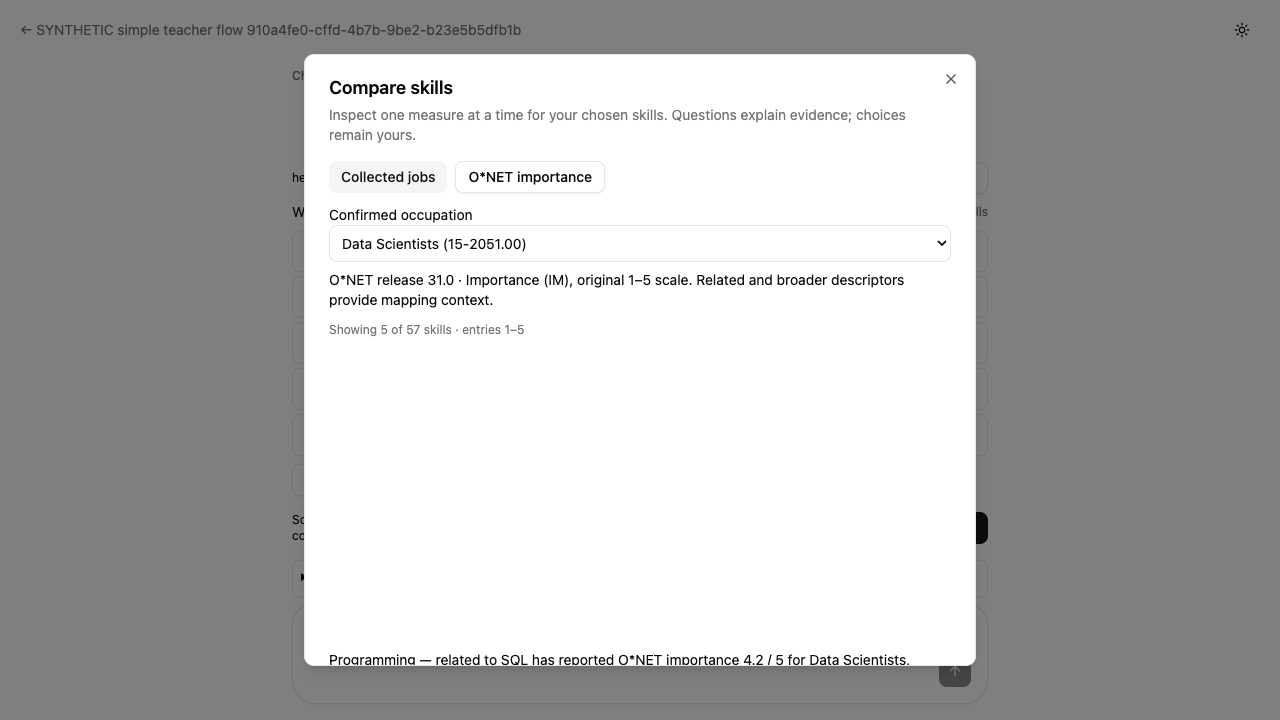
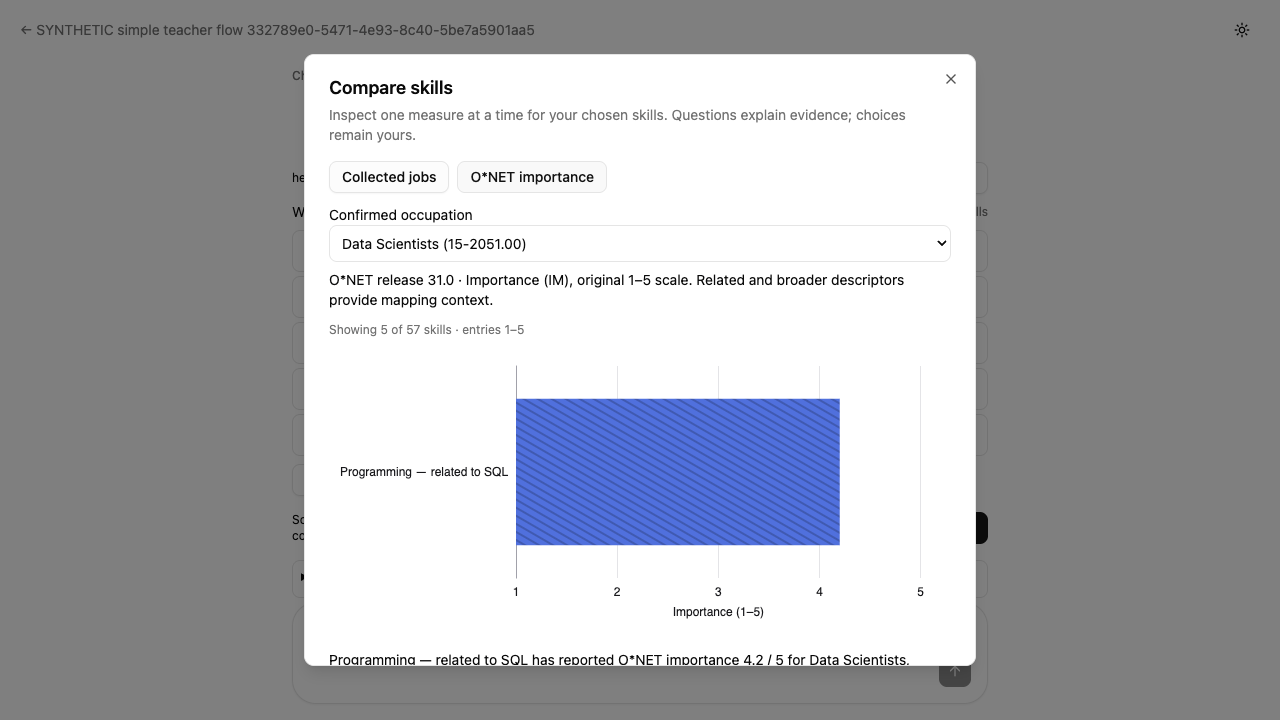
test: require confirmed selection and completed mapping streams

diff --git a/output/teacher-evidence-workspace/simple-flow-acceptance/index.html b/output/teacher-evidence-workspace/simple-flow-acceptance/index.html
@@ -5,7 +5,7 @@
 <h2>Student preservation and publication</h2><div class="table"><table><thead><tr><th>Readback</th><th>Before</th><th>After explicit approval</th></tr></thead><tbody><tr><td>SQL publication revision / approval rows</td><td>0 / 0</td><td>1 / 1; projected; repeat request remains one row</td></tr><tr><td>Approved IDs / supporting links</td><td>57 saved, no publication</td><td>Exact same 57 IDs; four links per item; exact review digest</td></tr><tr><td>Saved path (real Neo4j-backed student API)</td><td>1 saved book skill</td><td>Deep equal, including IDs and chapter relationships</td></tr><tr><td>Saved resource</td><td>1 reading, ready content</td><td>Deep equal, including URL and content</td></tr><tr><td>Quiz and mastery</td><td>1 answered, 1 correct; completed; is_known=true</td><td>Deep equal, including answer timestamp</td></tr></tbody></table></div><p>These checks are nonempty: the student already had a saved reading, answered quiz and mastered skill before publication. Full runtime ledgers and private authentication manifests are excluded from this report and Git.</p>
 <h2>Measured layout</h2><p>The assertion measures the actual main pane, current decision and action. Both required desktop sizes have no main scrolling. Five choices plus required coverage and pending proposals were exercised. Curriculum warnings use three summaries and a complete paged detail view. At 320 pixels the main pane scrolls vertically; keyboard focus brings the action into view, with no horizontal overflow.</p><div class="table"><table><thead><tr><th>State</th><th>Viewport</th><th>Main client / scroll px</th><th>Main skill rows</th><th>Action bottom px</th></tr></thead><tbody><tr><td>Five choices + coverage</td><td>320 × 667</td><td>583 / 782</td><td>5</td><td>Reachable</td></tr><tr><td>Five choices + coverage</td><td>390 × 844</td><td>780 / 780</td><td>5</td><td>Reachable</td></tr><tr><td>Five choices + coverage</td><td>1280 × 720</td><td>660 / 660</td><td>5</td><td>Reachable</td></tr><tr><td>Five choices + coverage</td><td>1440 × 900</td><td>840 / 840</td><td>5</td><td>Reachable</td></tr><tr><td>Curriculum approval</td><td>1280 × 720</td><td>660 / 660</td><td>3 targets</td><td>552</td></tr><tr><td>Curriculum approval</td><td>1440 × 900</td><td>840 / 840</td><td>3 targets</td><td>732</td></tr></tbody></table></div><p>Mobile action reachability is checked after scroll/focus. Desktop action coordinates are absolute viewport positions. The 320-pixel Browse dialog has no horizontal scrolling, and all six pages remain reachable.</p>
 <h2>Defects found and fixed</h2><ol><li><strong>Curriculum overflow:</strong> the original 1280 × 720 main pane measured 660 pixels high with 870 pixels of content, and the approval action ended at y=774. Compact summaries and an explicit remaining-warning count now keep the action visible. All four warnings and all 57 target IDs remain available; digest and exact-ID guards remain unchanged.</li><li><strong>Long unsupported names:</strong> the original alert printed full unbroken Unicode names across the main pane. It now reports the exact count and removal requirement; Browse presents every full name as breakable text with exact inspection/removal IDs.</li><li><strong>Narrow-screen review:</strong> Browse now constrains its grid and wraps pagination; its 320-pixel dialog measures 286/286 pixels client/scroll. Coverage copy uses the full 280-pixel width above its action.</li><li><strong>Source identity and keyboard return:</strong> links use currently verified title/employer, with posting-ID fallback while checking or purged. Escape restores the main Inspect button, or the surviving Browse trigger after inspecting from its dialog. No dialogs stack.</li></ol>
-<h2>Verification receipts</h2><ul><li><code>simple-contracts</code>, <code>simple-workflow</code>, <code>simple-corpus</code>, and <code>simple-layout</code> passed. <strong>Formal review fix round 1: the complete fresh-seeded <code>simple-flow</code> passed with exit 0 on new disposable course 96.</strong> It checked initial country/SOC/source-outcome state, all 58 choices, save failure/retry/reload, actual fresh Continue mapping HTTP 200, exact 57-ID/digest explicit approval, projected/idempotent publication and unchanged nonempty student records. No manual state repair or step transition was used. This supersedes the earlier incomplete full-flow receipt; the separate course-66 mapping receipt remains historical evidence. Application, helper and harness code are unchanged from <code>25644546db0748e215db91166aa5053e32f64ce1</code>. <code>simple-keyboard</code> passed and its assertions are included in <code>simple-layout</code>. Default <code>all</code> runs the five current suites. Historical names redirect explicitly; obsolete dashboard selector bodies were removed.</li><li>Curriculum regression: RED then 88 tests passed across IntegrationReview and MarketDemand. Unicode regression: RED then 40 tests passed across SkillChoice and MarketDemand. Review fixes: 58 tests passed; adjacent label/context checks: 32; final focus/choice checks: 22. These overlapping sets are not summed.</li><li>Frontend lint and production build passed; backend Ruff check and format passed for 330 files; JavaScript syntax and Git whitespace checks passed.</li><li>Existing integrated receipts reused: frontend547 tests/27 files plus199 affected tests; backend184 core plus208 context/pattern/chat tests. No backend production algorithm changed.</li></ul><details><summary>Retained numerical corpus (13 cases)</summary><ul><li>denominator_9</li><li>denominator_10</li><li>spread_1_0_distinct_role_ids</li><li>missing_cell</li><li>suppressed_numeric_not_plotted</li><li>ambiguous_cell</li><li>explicit_descriptor_choice</li><li>tie_label_then_id</li><li>same_denominator_only</li><li>max_two_no_repeated_skill</li><li>filtered_empty</li><li>partial_coverage_qualified</li><li>software_reference_not_numeric</li></ul></details>
-<h2>Screenshots</h2><p>Click any image for its full-size synthetic capture.</p><div class="gallery"><figure><a href="coverage-1280.png"><img loading="lazy" src="coverage-1280.png" alt="Five choices and required evidence gate · 1280 × 720"></a><figcaption>Five choices and required evidence gate · 1280 × 720</figcaption></figure><figure><a href="coverage-1440.png"><img loading="lazy" src="coverage-1440.png" alt="Five choices and required evidence gate · 1440 × 900"></a><figcaption>Five choices and required evidence gate · 1440 × 900</figcaption></figure><figure><a href="coverage-1024.png"><img loading="lazy" src="coverage-1024.png" alt="Tablet landscape · 1024 × 768"></a><figcaption>Tablet landscape · 1024 × 768</figcaption></figure><figure><a href="review-layout-390.png"><img loading="lazy" src="review-layout-390.png" alt="Stacked coverage prompt · 390 × 844"></a><figcaption>Stacked coverage prompt · 390 × 844</figcaption></figure><figure><a href="review-layout-320.png"><img loading="lazy" src="review-layout-320.png" alt="Mobile action reached · 320 × 667"></a><figcaption>Mobile action reached · 320 × 667</figcaption></figure><figure><a href="review-browse-320.png"><img loading="lazy" src="review-browse-320.png" alt="Browse pagination fits · 320 × 667"></a><figcaption>Browse pagination fits · 320 × 667</figcaption></figure><figure><a href="coverage-dark.png"><img loading="lazy" src="coverage-dark.png" alt="Dark appearance"></a><figcaption>Dark appearance</figcaption></figure><figure><a href="five-rows-proposals-coverage.png"><img loading="lazy" src="five-rows-proposals-coverage.png" alt="Five choices, six proposals and coverage gate"></a><figcaption>Five choices, six proposals and coverage gate</figcaption></figure><figure><a href="save-failure.png"><img loading="lazy" src="save-failure.png" alt="Real database save failure retains local choices"></a><figcaption>Real database save failure retains local choices</figcaption></figure><figure><a href="review-posting-identities.png"><img loading="lazy" src="review-posting-identities.png" alt="ETL: four named postings, two validated passages each"></a><figcaption>ETL: four named postings, two validated passages each</figcaption></figure><figure><a href="review-purged-identity.png"><img loading="lazy" src="review-purged-identity.png" alt="Purged content falls back to safe posting identity"></a><figcaption>Purged content falls back to safe posting identity</figcaption></figure><figure><a href="keyboard-focus-restored.png"><img loading="lazy" src="keyboard-focus-restored.png" alt="Keyboard close returns to surviving trigger"></a><figcaption>Keyboard close returns to surviving trigger</figcaption></figure><figure><a href="onet-related-and-missing.png"><img loading="lazy" src="onet-related-and-missing.png" alt="Related Programming descriptor and missing values"></a><figcaption>Related Programming descriptor and missing values</figcaption></figure><figure><a href="curriculum-1280.png"><img loading="lazy" src="curriculum-1280.png" alt="57 eligible curriculum targets; explicit approval visible"></a><figcaption>57 eligible curriculum targets; explicit approval visible</figcaption></figure><figure><a href="curriculum-blocked-1280.png"><img loading="lazy" src="curriculum-blocked-1280.png" alt="Supporting evidence warning keeps approval blocked"></a><figcaption>Supporting evidence warning keeps approval blocked</figcaption></figure><figure><a href="unicode-main-1280.png"><img loading="lazy" src="unicode-main-1280.png" alt="Long Unicode names: compact main warning"></a><figcaption>Long Unicode names: compact main warning</figcaption></figure><figure><a href="unicode-five-roles-320.png"><img loading="lazy" src="unicode-five-roles-320.png" alt="Long labels and five-role selector on mobile"></a><figcaption>Long labels and five-role selector on mobile</figcaption></figure><figure><a href="chart-import-failure.png"><img loading="lazy" src="chart-import-failure.png" alt="Actual chart chunk failure with usable fallback"></a><figcaption>Actual chart chunk failure with usable fallback</figcaption></figure><figure><a href="purged-posting-no-body.png"><img loading="lazy" src="purged-posting-no-body.png" alt="Purged posting retains provenance but no body"></a><figcaption>Purged posting retains provenance but no body</figcaption></figure><figure><a href="revised-candidates-reviewed.png"><img loading="lazy" src="revised-candidates-reviewed.png" alt="Explicit reconciliation of revised candidates"></a><figcaption>Explicit reconciliation of revised candidates</figcaption></figure><figure><a href="search-terms-1280.png"><img loading="lazy" src="search-terms-1280.png" alt="Five explicit search-term choices"></a><figcaption>Five explicit search-term choices</figcaption></figure><figure><a href="source-failure-recovery.png"><img loading="lazy" src="source-failure-recovery.png" alt="Source failure with zero candidates"></a><figcaption>Source failure with zero candidates</figcaption></figure><figure><a href="approved-disposable-fixture.png"><img loading="lazy" src="approved-disposable-fixture.png" alt="Explicit approval of disposable synthetic fixture"></a><figcaption>Explicit approval of disposable synthetic fixture</figcaption></figure></div>
+<h2>Verification receipts</h2><ul><li><code>simple-contracts</code>, <code>simple-workflow</code>, <code>simple-corpus</code>, and <code>simple-layout</code> passed. <strong>Final review I1: the strengthened fresh-seeded <code>simple-flow</code> passed with exit 0 on new disposable course 99.</strong> It checked initial country/SOC/source-outcome state, all 58 choices, save failure/retry/reload, actual UI selection confirmation with exact revisions/IDs/exclusions, fresh Continue mapping HTTP 200 with a completed SSE terminal and no error events, authoritative teacher confirmation and idle/unpublished state before fixture preparation, exact 57-ID/digest explicit approval, projected/idempotent publication and unchanged nonempty student records. No manual state repair or step transition was used. This supersedes the earlier incomplete full-flow receipt; the separate course-66 mapping receipt remains historical evidence. Application code is unchanged from <code>25644546db0748e215db91166aa5053e32f64ce1</code>; the acceptance helper and harness now enforce the confirmation and terminal-success boundary. The real HTTP 200/failed-terminal negative scenario rejects preparation, and missing confirmation rejects the helper without writes. Parser regressions cover error, failed, absent, duplicate and nonfinal terminal events. <code>simple-keyboard</code> passed and its assertions are included in <code>simple-layout</code>. Default <code>all</code> runs the negative boundary scenario plus the five current suites. Historical names redirect explicitly; obsolete dashboard selector bodies were removed.</li><li>Curriculum regression: RED then 88 tests passed across IntegrationReview and MarketDemand. Unicode regression: RED then 40 tests passed across SkillChoice and MarketDemand. Review fixes: 58 tests passed; adjacent label/context checks: 32; final focus/choice checks: 22. These overlapping sets are not summed.</li><li>Frontend lint and production build passed; backend Ruff check and format passed for 330 files; JavaScript syntax and Git whitespace checks passed.</li><li>Existing integrated receipts reused: frontend547 tests/27 files plus199 affected tests; backend184 core plus208 context/pattern/chat tests. No backend production algorithm changed.</li></ul><details><summary>Retained numerical corpus (13 cases)</summary><ul><li>denominator_9</li><li>denominator_10</li><li>spread_1_0_distinct_role_ids</li><li>missing_cell</li><li>suppressed_numeric_not_plotted</li><li>ambiguous_cell</li><li>explicit_descriptor_choice</li><li>tie_label_then_id</li><li>same_denominator_only</li><li>max_two_no_repeated_skill</li><li>filtered_empty</li><li>partial_coverage_qualified</li><li>software_reference_not_numeric</li></ul></details>
+<h2>Final review closure</h2><p><strong>I1:</strong> Both course-scoped POST responses are captured before Continue. The confirmation request and response are checked against the saved shortlist; completed SSE is parsed and must end successfully without errors. SQL and state must already contain the matching teacher confirmation with no publication or approval, and execution must be idle. Preparation asserts the existing confirmation and never creates it. A controlled model exception exercises a real HTTP 200 failed stream and proves preparation is not called.</p><p><strong>M1:</strong> The O*NET screenshot now waits for the new SVG, the exact 4.2 series, the related Programming label and an actual rendered SVG bar. No production application files changed in this final fix.</p><h2>Screenshots</h2><p>Click any image for its full-size synthetic capture.</p><div class="gallery"><figure><a href="coverage-1280.png"><img loading="lazy" src="coverage-1280.png" alt="Five choices and required evidence gate · 1280 × 720"></a><figcaption>Five choices and required evidence gate · 1280 × 720</figcaption></figure><figure><a href="coverage-1440.png"><img loading="lazy" src="coverage-1440.png" alt="Five choices and required evidence gate · 1440 × 900"></a><figcaption>Five choices and required evidence gate · 1440 × 900</figcaption></figure><figure><a href="coverage-1024.png"><img loading="lazy" src="coverage-1024.png" alt="Tablet landscape · 1024 × 768"></a><figcaption>Tablet landscape · 1024 × 768</figcaption></figure><figure><a href="review-layout-390.png"><img loading="lazy" src="review-layout-390.png" alt="Stacked coverage prompt · 390 × 844"></a><figcaption>Stacked coverage prompt · 390 × 844</figcaption></figure><figure><a href="review-layout-320.png"><img loading="lazy" src="review-layout-320.png" alt="Mobile action reached · 320 × 667"></a><figcaption>Mobile action reached · 320 × 667</figcaption></figure><figure><a href="review-browse-320.png"><img loading="lazy" src="review-browse-320.png" alt="Browse pagination fits · 320 × 667"></a><figcaption>Browse pagination fits · 320 × 667</figcaption></figure><figure><a href="coverage-dark.png"><img loading="lazy" src="coverage-dark.png" alt="Dark appearance"></a><figcaption>Dark appearance</figcaption></figure><figure><a href="five-rows-proposals-coverage.png"><img loading="lazy" src="five-rows-proposals-coverage.png" alt="Five choices, six proposals and coverage gate"></a><figcaption>Five choices, six proposals and coverage gate</figcaption></figure><figure><a href="save-failure.png"><img loading="lazy" src="save-failure.png" alt="Real database save failure retains local choices"></a><figcaption>Real database save failure retains local choices</figcaption></figure><figure><a href="review-posting-identities.png"><img loading="lazy" src="review-posting-identities.png" alt="ETL: four named postings, two validated passages each"></a><figcaption>ETL: four named postings, two validated passages each</figcaption></figure><figure><a href="review-purged-identity.png"><img loading="lazy" src="review-purged-identity.png" alt="Purged content falls back to safe posting identity"></a><figcaption>Purged content falls back to safe posting identity</figcaption></figure><figure><a href="keyboard-focus-restored.png"><img loading="lazy" src="keyboard-focus-restored.png" alt="Keyboard close returns to surviving trigger"></a><figcaption>Keyboard close returns to surviving trigger</figcaption></figure><figure><a href="onet-related-and-missing.png"><img loading="lazy" src="onet-related-and-missing.png" alt="Related Programming descriptor and missing values"></a><figcaption>Related Programming descriptor and missing values</figcaption></figure><figure><a href="curriculum-1280.png"><img loading="lazy" src="curriculum-1280.png" alt="57 eligible curriculum targets; explicit approval visible"></a><figcaption>57 eligible curriculum targets; explicit approval visible</figcaption></figure><figure><a href="curriculum-blocked-1280.png"><img loading="lazy" src="curriculum-blocked-1280.png" alt="Supporting evidence warning keeps approval blocked"></a><figcaption>Supporting evidence warning keeps approval blocked</figcaption></figure><figure><a href="unicode-main-1280.png"><img loading="lazy" src="unicode-main-1280.png" alt="Long Unicode names: compact main warning"></a><figcaption>Long Unicode names: compact main warning</figcaption></figure><figure><a href="unicode-five-roles-320.png"><img loading="lazy" src="unicode-five-roles-320.png" alt="Long labels and five-role selector on mobile"></a><figcaption>Long labels and five-role selector on mobile</figcaption></figure><figure><a href="chart-import-failure.png"><img loading="lazy" src="chart-import-failure.png" alt="Actual chart chunk failure with usable fallback"></a><figcaption>Actual chart chunk failure with usable fallback</figcaption></figure><figure><a href="purged-posting-no-body.png"><img loading="lazy" src="purged-posting-no-body.png" alt="Purged posting retains provenance but no body"></a><figcaption>Purged posting retains provenance but no body</figcaption></figure><figure><a href="revised-candidates-reviewed.png"><img loading="lazy" src="revised-candidates-reviewed.png" alt="Explicit reconciliation of revised candidates"></a><figcaption>Explicit reconciliation of revised candidates</figcaption></figure><figure><a href="search-terms-1280.png"><img loading="lazy" src="search-terms-1280.png" alt="Five explicit search-term choices"></a><figcaption>Five explicit search-term choices</figcaption></figure><figure><a href="source-failure-recovery.png"><img loading="lazy" src="source-failure-recovery.png" alt="Source failure with zero candidates"></a><figcaption>Source failure with zero candidates</figcaption></figure><figure><a href="approved-disposable-fixture.png"><img loading="lazy" src="approved-disposable-fixture.png" alt="Explicit approval of disposable synthetic fixture"></a><figcaption>Explicit approval of disposable synthetic fixture</figcaption></figure></div>
 <h2>Scope and limitations</h2><p>The initial fixture incorrectly used occupation objects and incomplete source-outcome dictionaries in agent state. It now uses SOC strings, confirmed country and the existing SourceOutcome DTO; state readback and actual mapping 200 are mandatory assertions. Provider transport and model output are controlled at the test-helper boundary; no browser API responses are mocked. The real search/group workflow collected three synthetic postings. The larger 58-skill fixture separately exercises complete review and publication; it does not claim a live model extracted that sample. O*NET values in these fixtures are explicitly synthetic, not official ratings. The preliminary retry stopped before course creation because synthetic authentication had expired; renewing private credentials resolved it. The expected disabled-Azure-storage warnings reflect intentionally absent external credentials. Existing lint reports one unused suppression in an unrelated test, and Vite reports its existing large-chunk warning. A brief setup warning during post-response reconciliation was observed by the independent reviewer; it clears when the authoritative snapshot settles, with the same decision and configuration. Live providers, production authentication and actual teacher publication were not used. The unapproved fresh-review fixture is separate from the published preservation fixture.</p>
 <footer>Technical acceptance only · branch feat/teacher-evidence-workspace · base c03d667 · source and sanitized assets committed together; exact commit recorded in the internal Task 6 handoff.</footer></main></body></html>

diff --git a/backend/tests/acceptance/teacher_workspace_server.py b/backend/tests/acceptance/teacher_workspace_server.py
@@ -1550,6 +1550,9 @@ def main() -> None:
                             "publication_revision": run.publication_revision,
                             "selected_candidate_ids": run.selected_candidate_ids,
                             "excluded_candidate_ids": run.excluded_candidate_ids,
+                            "selection_confirmation": run.selection_confirmation,
+                            "teacher_id": run.teacher_id,
+                            "integration_review": run.integration_review,
                             "approved_references": run.approved_references,
                             "approvals": [
                                 {
@@ -1592,9 +1595,11 @@ def main() -> None:
                     expected_candidate_revision=run.candidate_revision,
                     expected_selection_revision=run.selection_revision,
                 )
-                service.confirm_selection(
-                    manifest["course"]["id"], manifest["course"]["teacher_id"], revision
+                assert service._confirmed(run), (
+                    "Existing current teacher selection confirmation is required; "
+                    "acceptance preparation never confirms selection"
                 )
+                assert run.publication_revision == 0, "Fixture must be unpublished"
                 candidates = [
                     row
                     for row in run.candidate_manifest["candidates"]
